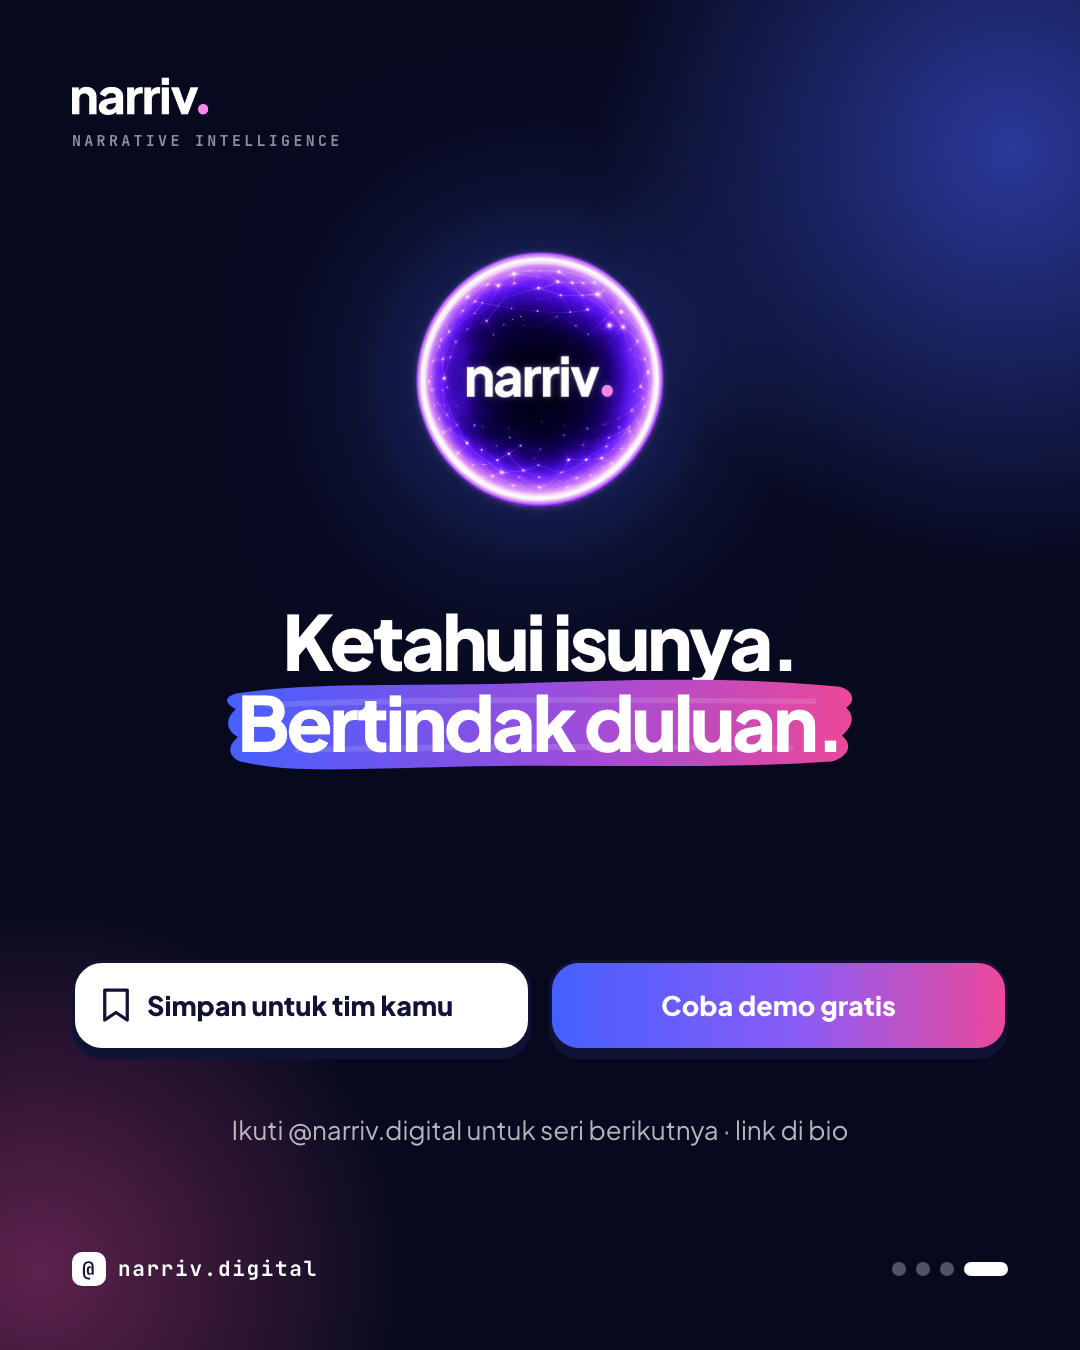
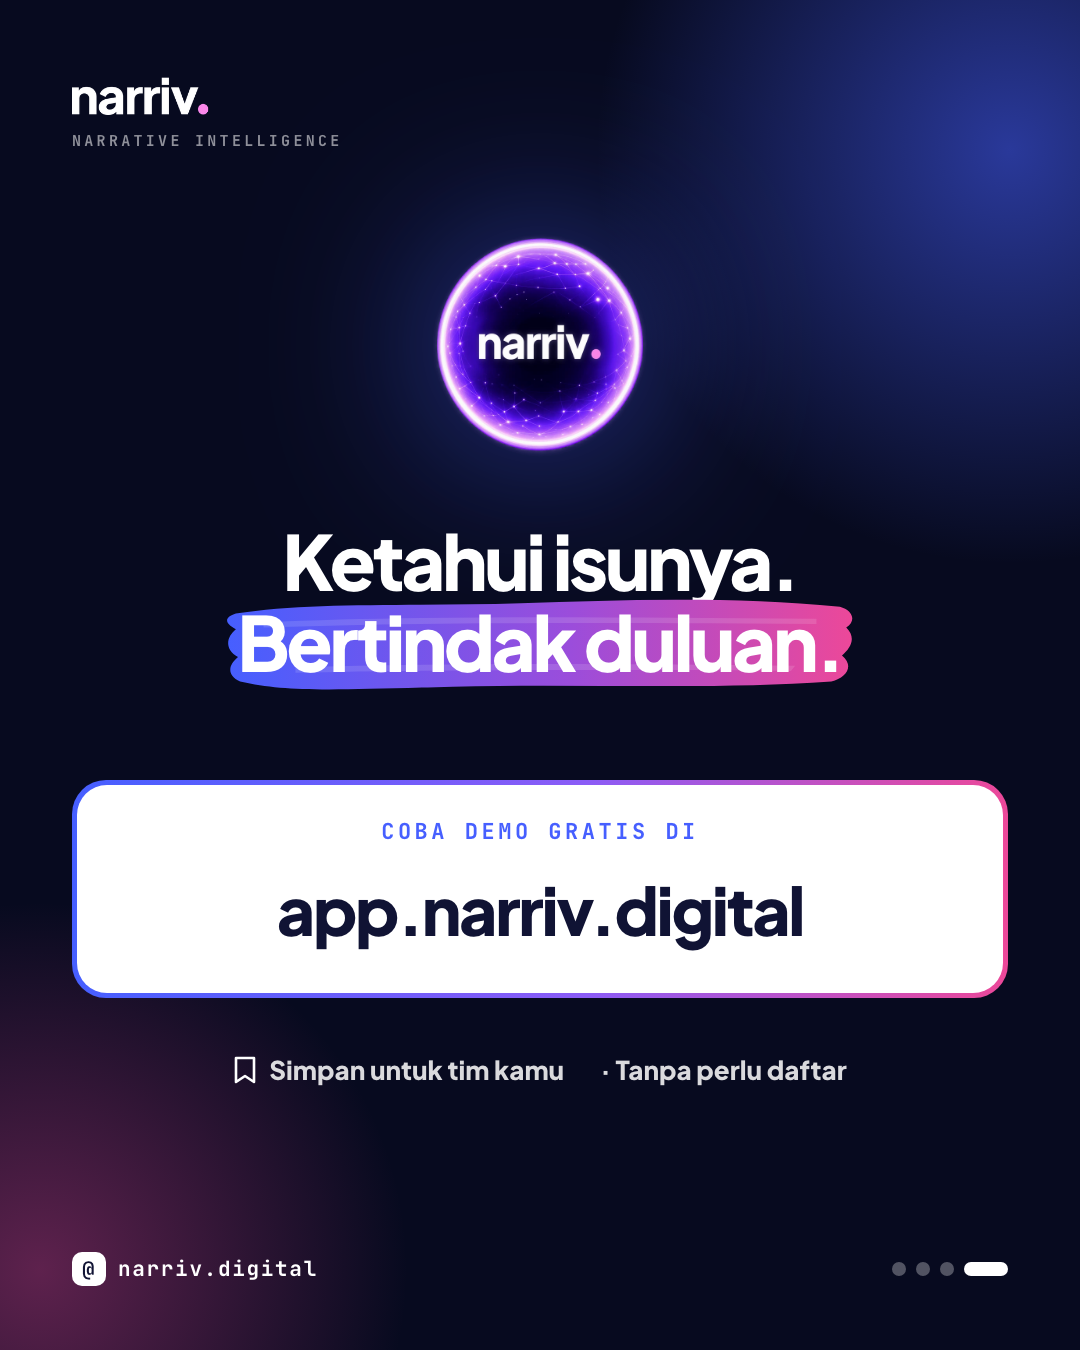
Education closing slide: the demo address app.narriv.digital, big and clear

Changed region(s): [[0.0611, 0.1556, 0.9472, 0.8711]]

diff --git a/frontend/app/pitch/social/edu/page.tsx b/frontend/app/pitch/social/edu/page.tsx
@@ -81,18 +81,24 @@ const closing = (_topic: string): Slide => ({
   dark: true,
   body: (
     <>
-      <img src="/brand/logo-bulat-nv.webp" alt="" style={{ position: "absolute", left: 390, top: 230, width: 300, height: 300, filter: "drop-shadow(0 0 90px rgba(70,95,255,.6))" }} />
-      <div style={{ position: "absolute", left: 72, right: 72, top: 600, textAlign: "center" }}>
+      <img src="/brand/logo-bulat-nv.webp" alt="" style={{ position: "absolute", left: 415, top: 220, width: 250, height: 250, filter: "drop-shadow(0 0 90px rgba(70,95,255,.6))" }} />
+      <div style={{ position: "absolute", left: 72, right: 72, top: 520, textAlign: "center" }}>
         <p style={{ margin: 0, fontSize: 76, lineHeight: 1.06, fontWeight: 800, letterSpacing: "-0.045em" }}>Ketahui isunya. <Brush>Bertindak duluan.</Brush></p>
       </div>
-      <div style={{ position: "absolute", left: 72, right: 72, top: 960, display: "grid", gridTemplateColumns: "1fr 1fr", gap: 18 }}>
-        <span style={{ ...card, display: "flex", alignItems: "center", gap: 16, padding: "22px 26px", fontSize: 27, fontWeight: 800 }}>
-          <svg width="30" height="36" viewBox="0 0 24 28" aria-hidden><path d="M3 2h18v24l-9-6-9 6z" fill="none" stroke={INK} strokeWidth="2.6" strokeLinejoin="round" /></svg>
+      {/* The demo address, big and unmissable. */}
+      <div style={{ position: "absolute", left: 72, right: 72, top: 780, padding: 5, borderRadius: 34, background: GRAD }}>
+        <div style={{ padding: "30px 34px 34px", borderRadius: 30, background: "#fff", color: INK, textAlign: "center" }}>
+          <p style={{ margin: 0, fontFamily: MONO, fontSize: 22, fontWeight: 700, letterSpacing: "0.16em", textTransform: "uppercase", color: BLUE }}>Coba demo gratis di</p>
+          <p style={{ margin: "12px 0 0", fontSize: 66, fontWeight: 800, letterSpacing: "-0.035em" }}>app.narriv.digital</p>
+        </div>
+      </div>
+      <div style={{ position: "absolute", left: 72, right: 72, top: 1050, display: "flex", justifyContent: "center", gap: 36, fontSize: 26, fontWeight: 800, color: "rgba(255,255,255,.85)" }}>
+        <span style={{ display: "inline-flex", alignItems: "center", gap: 12 }}>
+          <svg width="24" height="30" viewBox="0 0 24 28" aria-hidden><path d="M3 2h18v24l-9-6-9 6z" fill="none" stroke="#fff" strokeWidth="2.6" strokeLinejoin="round" /></svg>
           Simpan untuk tim kamu
         </span>
-        <span style={{ display: "flex", alignItems: "center", justifyContent: "center", padding: "22px 26px", borderRadius: 30, background: GRAD, fontSize: 27, fontWeight: 800, border: `3px solid ${INK}`, boxShadow: `0 8px 0 ${INK}` }}>Coba demo gratis</span>
+        <span>· Tanpa perlu daftar</span>
       </div>
-      <p style={{ position: "absolute", left: 72, right: 72, top: 1110, margin: 0, textAlign: "center", fontSize: 26, color: "rgba(255,255,255,.7)" }}>Ikuti @narriv.digital untuk seri berikutnya · link di bio</p>
     </>
   ),
 });

diff --git a/docs/social-templates/edu/captions.md b/docs/social-templates/edu/captions.md
@@ -1,6 +1,6 @@
 # Seri Edukasi Narriv · 10 feed (@narriv.digital)
 
-Sepuluh carousel (4–5 slide, 1080×1350), urutan posting = nomor folder `post-01` … `post-10`. Slide terakhir tiap postingan: simpan, ikuti, coba demo. Sumber: `frontend/app/pitch/social/edu/page.tsx`.
+Sepuluh carousel (4–5 slide, 1080×1350), urutan posting = nomor folder `post-01` … `post-10`. Slide terakhir tiap postingan: alamat demo app.narriv.digital dan ajakan simpan. Sumber: `frontend/app/pitch/social/edu/page.tsx`.
 
 **1 · Apa itu narrative intelligence?**
 Media monitoring menghitung berapa kali kamu disebut. Narrative intelligence membaca cerita apa yang sedang terbentuk, seberapa cepat menyebar, dan apa yang perlu dilakukan. Bedanya: kamu bisa bertindak sebelum isunya ramai.
@@ -39,5 +39,5 @@ Orang kini bertanya ke asisten AI sebelum mencari. Narriv mengecek apakah brand 
 #AIVisibility #GEO #ChatGPT
 
 **10 · Siapa yang butuh Narriv?**
-Brand dan perusahaan, pemerintah dan lembaga, juga agensi PR. Coba demo gratis dengan data contoh lewat link di bio.
+Brand dan perusahaan, pemerintah dan lembaga, juga agensi PR. Coba demo gratis dengan data contoh di app.narriv.digital.
 #Narriv #PRAgency #Reputasi
